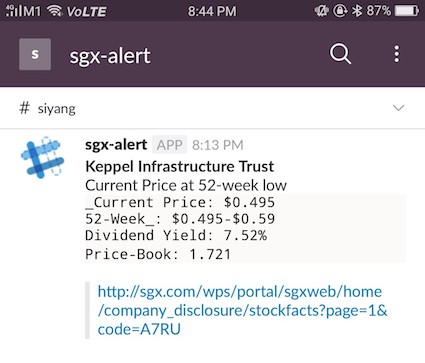
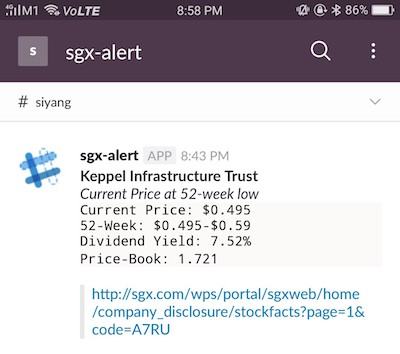
.

diff --git a/README.md b/README.md
@@ -12,4 +12,4 @@ This script aims to achieve that. It uses python to obtain price and metrics inf
  * Slack application
 
 
- <!-- ![screenshot](https://github.com/mapattacker/stock-alert/blob/master/slack_image.jpg) -->
+ ![screenshot](https://github.com/mapattacker/stock-alert/blob/master/slack_image.jpg)
